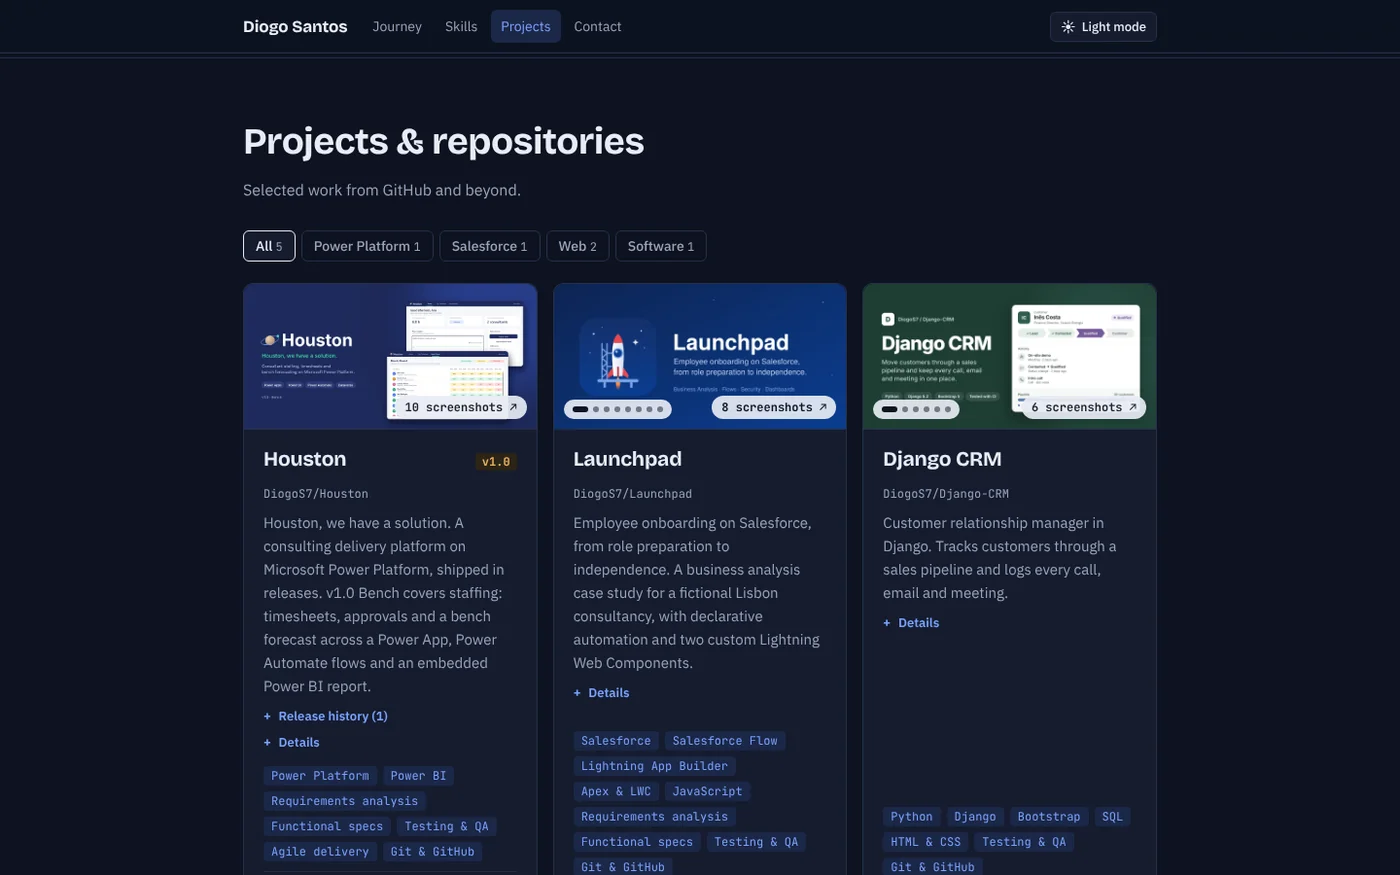
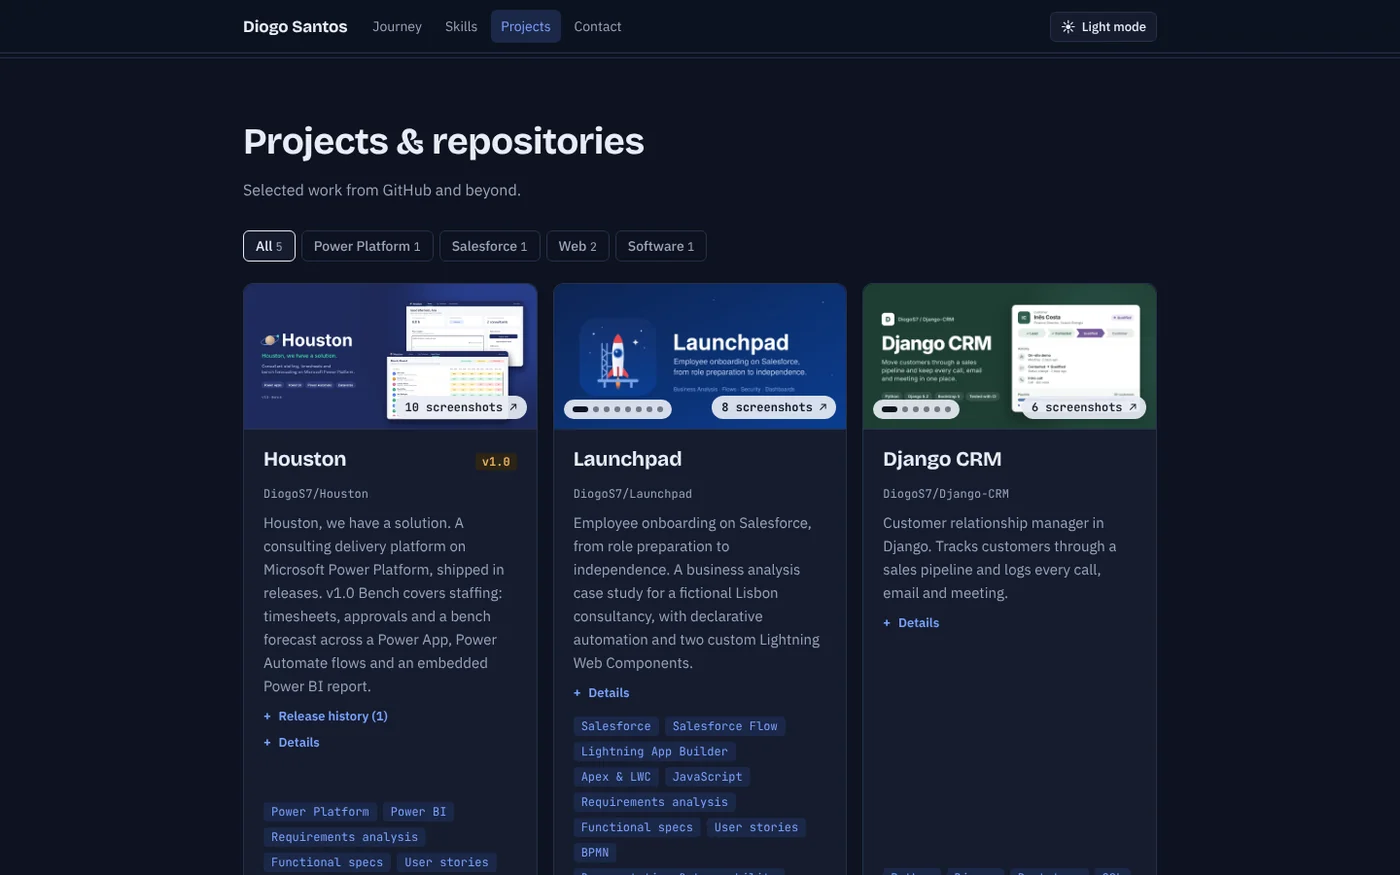
Skills: keep only skills used in my roles and projects; add BA and QA skills

Changed region(s): [[0.3993, 0.8023, 0.5836, 1.0], [0.1843, 0.864, 0.3686, 1.0], [0.6143, 0.9257, 0.7986, 1.0]]

diff --git a/assets/js/data.js b/assets/js/data.js
@@ -9,51 +9,49 @@ const CV = {
     { group: "Business analysis", items: [
       { name:"Requirements analysis", level:4 },
       { name:"Functional specs", level:4 },
+      { name:"User stories", level:4 },
       { name:"BPMN", level:4 },
       { name:"UML", level:3 },
-      { name:"BMM", level:3 },
-      { name:"Testing & QA", level:4 },
+      { name:"Stakeholder workshops", level:3 },
+      { name:"Documentation & traceability", level:4 },
       { name:"Agile delivery", level:3 },
+    ]},
+    { group: "Quality assurance", items: [
+      { name:"Testing & QA", level:4 },
+      { name:"Bug tracking", level:4 },
+      { name:"Automated testing & CI", level:3 },
+      { name:"Metrics & reporting", level:3 },
     ]},
     { group: "Microsoft & CRM platforms", items: [
       { name:"Dynamics 365", level:3 },
       { name:"Power Platform", level:3 },
       { name:"Power BI", level:3 },
-      { name:"Copilot Studio", level:2 },
       { name:"Salesforce", level:3 },
       { name:"Salesforce Flow", level:3 },
       { name:"Lightning App Builder", level:3 },
       { name:"Apex & LWC", level:2 },
-      { name:"Azure Data Factory", level:2 },
     ]},
-    { group: "Programming", items: [
+    { group: "Programming & web", items: [
       { name:"Python", level:4 },
       { name:"SQL", level:4 },
       { name:"JavaScript", level:3 },
-      { name:"Node.js & Express", level:3 },
-      { name:"Java", level:3 },
-      { name:"C / C++", level:3 },
-      { name:"SOQL / SOSL", level:2 },
-    ]},
-    { group: "Web & data", items: [
       { name:"Django", level:4 },
       { name:"Bootstrap", level:3 },
       { name:"HTML & CSS", level:3 },
-      { name:"MongoDB / NoSQL", level:3 },
     ]},
     { group: "Tools", items: [
       { name:"Jira & Confluence", level:4 },
       { name:"Azure DevOps", level:4 },
+      { name:"ALM tools", level:3 },
       { name:"Git & GitHub", level:4 },
       { name:"Excel", level:4 },
-      { name:"ALM tools", level:3 },
     ]},
   ],
   projects: [
     { name:"Houston", category:"Power Platform", repo:"DiogoS7/Houston",
       url:"https://github.com/DiogoS7/Houston",
       desc:"Houston, we have a solution. A consulting delivery platform on Microsoft Power Platform, shipped in releases. v1.0 Bench covers staffing: timesheets, approvals and a bench forecast across a Power App, Power Automate flows and an embedded Power BI report.",
-      skills:["Power Platform","Power BI","Requirements analysis","Functional specs","Testing & QA","Agile delivery","Git & GitHub"],
+      skills:["Power Platform","Power BI","Requirements analysis","Functional specs","User stories","Testing & QA","Automated testing & CI","Agile delivery","Git & GitHub"],
       context:"Personal project · Power Platform · 2026",
       releases:[
         { version:"v1.0", name:"Bench", date:"Oct 2026", url:"https://github.com/DiogoS7/Houston/releases/tag/v1.0",
@@ -76,7 +74,7 @@ const CV = {
     { name:"Launchpad", category:"Salesforce", repo:"DiogoS7/Launchpad",
       url:"https://github.com/DiogoS7/Launchpad",
       desc:"Employee onboarding on Salesforce, from role preparation to independence. A business analysis case study for a fictional Lisbon consultancy, with declarative automation and two custom Lightning Web Components.",
-      skills:["Salesforce","Salesforce Flow","Lightning App Builder","Apex & LWC","JavaScript","Requirements analysis","Functional specs","Testing & QA","Git & GitHub"],
+      skills:["Salesforce","Salesforce Flow","Lightning App Builder","Apex & LWC","JavaScript","Requirements analysis","Functional specs","User stories","BPMN","Documentation & traceability","Testing & QA","Automated testing & CI","Git & GitHub"],
       context:"Personal project · Salesforce · 2026",
       shots:[
         {src:"assets/img/shots/launchpad-cover.webp", caption:"Launchpad: employee onboarding on Salesforce, from role preparation to independence"},
@@ -92,7 +90,7 @@ const CV = {
     { name:"Django CRM", category:"Web", repo:"DiogoS7/Django-CRM",
       url:"https://github.com/DiogoS7/Django-CRM",
       desc:"Customer relationship manager in Django. Tracks customers through a sales pipeline and logs every call, email and meeting.",
-      skills:["Python","Django","Bootstrap","SQL","HTML & CSS","Testing & QA","Git & GitHub"],
+      skills:["Python","Django","Bootstrap","SQL","HTML & CSS","Testing & QA","Automated testing & CI","Git & GitHub"],
       context:"Personal project · Django 5.2",
       shots:[
         {src:"assets/img/shots/crm-cover.webp", caption:"Django CRM: move customers through a sales pipeline and keep every call, email and meeting in one place"},
@@ -106,7 +104,7 @@ const CV = {
     { name:"dronyDeliv", category:"Software", repo:"DiogoS7/dronyDeliv",
       url:"https://github.com/DiogoS7/dronyDeliv",
       desc:"Command-line scheduler for a drone delivery company. Decides which drone delivers each parcel, cancels orders no drone can handle, and writes the updated fleet and a delivery timetable.",
-      skills:["Python","Testing & QA","Git & GitHub"],
+      skills:["Python","Testing & QA","Automated testing & CI","Git & GitHub"],
       context:"FCUL group project · 2019, refactored 2026",
       shots:[
         {src:"assets/img/shots/drony-cover.webp", caption:"dronyDeliv: schedules parcel deliveries across a drone fleet"},
@@ -116,45 +114,45 @@ const CV = {
     { name:"Interactive CV", category:"Web", repo:"DiogoS7/DiogoS7.github.io",
       url:"https://github.com/DiogoS7/DiogoS7.github.io",
       desc:"This site. A responsive CV with a scroll-driven trip across the solar system, skill filters and screenshot galleries, in plain HTML, CSS and JavaScript.",
-      skills:["HTML & CSS","JavaScript","Git & GitHub"],
+      skills:["HTML & CSS","JavaScript","Automated testing & CI","Git & GitHub"],
       context:"Personal project · 2026",
       shots:[
         {src:"assets/img/shots/cv-cover.webp?v=20261018", caption:"Interactive CV: a career across the solar system"},
-        {src:"assets/img/shots/cv-hero.webp?v=20261018", caption:"Header with intro, links and quick stats"},
+        {src:"assets/img/shots/cv-hero.webp?v=20261023-2", caption:"Header with intro, links and quick stats"},
         {src:"assets/img/shots/cv-journey.webp?v=20261023", caption:"Journey: the rocket reaches Jupiter, my first consulting role"},
         {src:"assets/img/shots/cv-journey-houston.webp?v=20261018", caption:"Journey: Houston at Pluto, with its screenshot cover and release badge"},
-        {src:"assets/img/shots/cv-skills.webp?v=20261023", caption:"Skills filtered to Python, highlighting matching work"},
-        {src:"assets/img/shots/cv-projects.webp?v=20261018", caption:"Project cards with hover slideshows"},
+        {src:"assets/img/shots/cv-skills.webp?v=20261023-2", caption:"Skills filtered to Python, highlighting matching work"},
+        {src:"assets/img/shots/cv-projects.webp?v=20261023-2", caption:"Project cards with hover slideshows"},
         {src:"assets/img/shots/cv-gallery.webp?v=20261018", caption:"Screenshot gallery with arrows, thumbnails and swipe"},
-        {src:"assets/img/shots/cv-projects-dark.webp?v=20261018", caption:"Dark theme"},
+        {src:"assets/img/shots/cv-projects-dark.webp?v=20261023-2", caption:"Dark theme"},
         {src:"assets/img/shots/cv-phone-journey.webp?v=20261018", caption:"Phone layout with the flight pinned to the top"},
       ],
       details:["Canvas animation of a rocket flying from Mercury to interstellar space as you scroll","Skill filters dim projects and milestones that don't use the skill","Screenshot galleries with keyboard and swipe support","Light and dark themes; works from phone to desktop; no frameworks or build step"] },
   ],
   journey: [
     { type:"edu", when:"Sep 2019 – Jul 2020", year:"2019", title:"Bachelor in Information Technology", org:"Faculty of Sciences, University of Lisbon (FCUL)",
-      points:[], skills:["C / C++","Python"] },
+      points:[], skills:["Python"] },
     { type:"project", when:"2019", year:"2019", title:"dronyDeliv", org:"Group project for Programação 1 at FCUL",
-      points:["Python scheduler that assigns parcel orders to a drone fleet","Refactored in 2026 into a tested package with CI"], skills:["Python","Testing & QA","Git & GitHub"], project:"dronyDeliv" },
+      points:["Python scheduler that assigns parcel orders to a drone fleet","Refactored in 2026 into a tested package with CI"], skills:["Python","Testing & QA","Automated testing & CI","Git & GitHub"], project:"dronyDeliv" },
     { type:"edu", when:"Sep 2020 – Jul 2025", year:"2020", title:"Bachelor in Information Systems Management", org:"IADE, Faculty of Design, Technology and Communication",
-      points:[], skills:["Python","Java","SQL","UML","BPMN"] },
+      points:[], skills:["Python","SQL","UML","BPMN"] },
     { type:"project", when:"2025", year:"2025", title:"Django CRM", org:"Personal project · Django 5.2",
-      points:["Sales pipeline, activity logging and a dashboard, with automated tests on GitHub Actions"], skills:["Python","Django","Bootstrap","SQL","HTML & CSS","Testing & QA","Git & GitHub"], project:"Django CRM" },
+      points:["Sales pipeline, activity logging and a dashboard, with automated tests on GitHub Actions"], skills:["Python","Django","Bootstrap","SQL","HTML & CSS","Testing & QA","Automated testing & CI","Git & GitHub"], project:"Django CRM" },
     { type:"work", when:"Sep 2025 – Feb 2026", year:"2025", title:"Junior Business Analyst", org:"Avanade Portugal · Lisbon",
       points:["Gathered requirements and wrote functional specs for Microsoft Dynamics 365 and Power Platform solutions","Supported configuration of Dynamics 365, Power Apps, Power Automate and Power BI to fit client processes","Analysed data in Excel and Power BI to inform solution design","Mapped processes and found opportunities to automate them","Maintained user stories in Azure DevOps and Jira, took part in client workshops, and validated solutions in testing"],
-      skills:["Requirements analysis","Functional specs","Dynamics 365","Power Platform","Power BI","Excel","Azure DevOps","Jira & Confluence","Agile delivery","Testing & QA"] },
+      skills:["Requirements analysis","Functional specs","User stories","Stakeholder workshops","Documentation & traceability","Dynamics 365","Power Platform","Power BI","Metrics & reporting","Excel","Azure DevOps","Jira & Confluence","Agile delivery","Testing & QA"] },
     { type:"work", when:"Mar 2026 – Apr 2026", year:"2026", title:"Business Analyst Consultant", org:"Winning Scientific Management · Lisbon",
       points:["Gathered and documented business requirements in stakeholder meetings","Defined functional requirements, business rules, use cases and process flows for a new system","Modelled business processes in low- and high-fidelity BPMN diagrams","Managed requirements, user stories and tasks in Jira and Azure DevOps","Kept stakeholders and the development team aligned throughout delivery"],
-      skills:["Requirements analysis","Functional specs","BPMN","Jira & Confluence","Azure DevOps"] },
+      skills:["Requirements analysis","Functional specs","User stories","BPMN","Stakeholder workshops","Documentation & traceability","Jira & Confluence","Azure DevOps"] },
     { type:"work", when:"Jun 2026 – Present", year:"2026", current:true, title:"Quality Assurance Consultant", org:"Noesis · Lisbon",
       points:["Analyse business and functional requirements and define acceptance criteria","Create and run test cases to validate requirements and solution quality","Track bugs through the testing lifecycle in ALM tools","Build metrics and reports for project monitoring","Work with business and technical teams in an Agile setup, and keep documentation and traceability up to date"],
-      skills:["Requirements analysis","Functional specs","Testing & QA","ALM tools","Agile delivery"] },
+      skills:["Requirements analysis","Functional specs","User stories","Documentation & traceability","Testing & QA","Bug tracking","Metrics & reporting","ALM tools","Agile delivery"] },
     { type:"project", when:"Oct 2026", year:"2026", title:"Launchpad", org:"Personal project · Salesforce Platform",
       points:["Employee onboarding app for a fictional consultancy, from role preparation to independence","Business analysis first: AS-IS and TO-BE processes, 25 requirements, 12 user stories","Declarative automation (Flows, validation rules, sharing) plus two custom Lightning Web Components"],
-      skills:["Salesforce","Salesforce Flow","Lightning App Builder","Apex & LWC","JavaScript","Requirements analysis","Functional specs","Testing & QA","Git & GitHub"], project:"Launchpad" },
+      skills:["Salesforce","Salesforce Flow","Lightning App Builder","Apex & LWC","JavaScript","Requirements analysis","Functional specs","User stories","BPMN","Documentation & traceability","Testing & QA","Automated testing & CI","Git & GitHub"], project:"Launchpad" },
     { type:"project", when:"Oct 2026", year:"2026", title:"Houston", org:"Personal project · Microsoft Power Platform",
       points:["Consulting delivery platform shipped in releases: Bench, SkillPath, ScopeGuard, Hypercare","v1.0 Bench: timesheets, approvals and a bench forecast across Power Apps, Power Automate and Power BI","Business analysis first: problem statement, user stories, data model and process flows"],
-      skills:["Power Platform","Power BI","Requirements analysis","Functional specs","Testing & QA","Agile delivery","Git & GitHub"], project:"Houston" },
+      skills:["Power Platform","Power BI","Requirements analysis","Functional specs","User stories","Testing & QA","Automated testing & CI","Agile delivery","Git & GitHub"], project:"Houston" },
     { type:"next", when:"Next", year:"Next", title:"Next mission: your team?", org:"Open to new job opportunities and interesting collaborations.",
       points:[], skills:[] },
   ],

diff --git a/index.html b/index.html
@@ -106,7 +106,7 @@
   </div>
 </div>
 <footer><div class="wrap">© 2026 Diogo Santos · Business analyst &amp; consultant · Lisbon, Portugal</div></footer>
-<script src="assets/js/data.js?v=20261023"></script>
+<script src="assets/js/data.js?v=20261023-2"></script>
 <script src="assets/js/app.js?v=20261018"></script>
 </body>
 </html>
